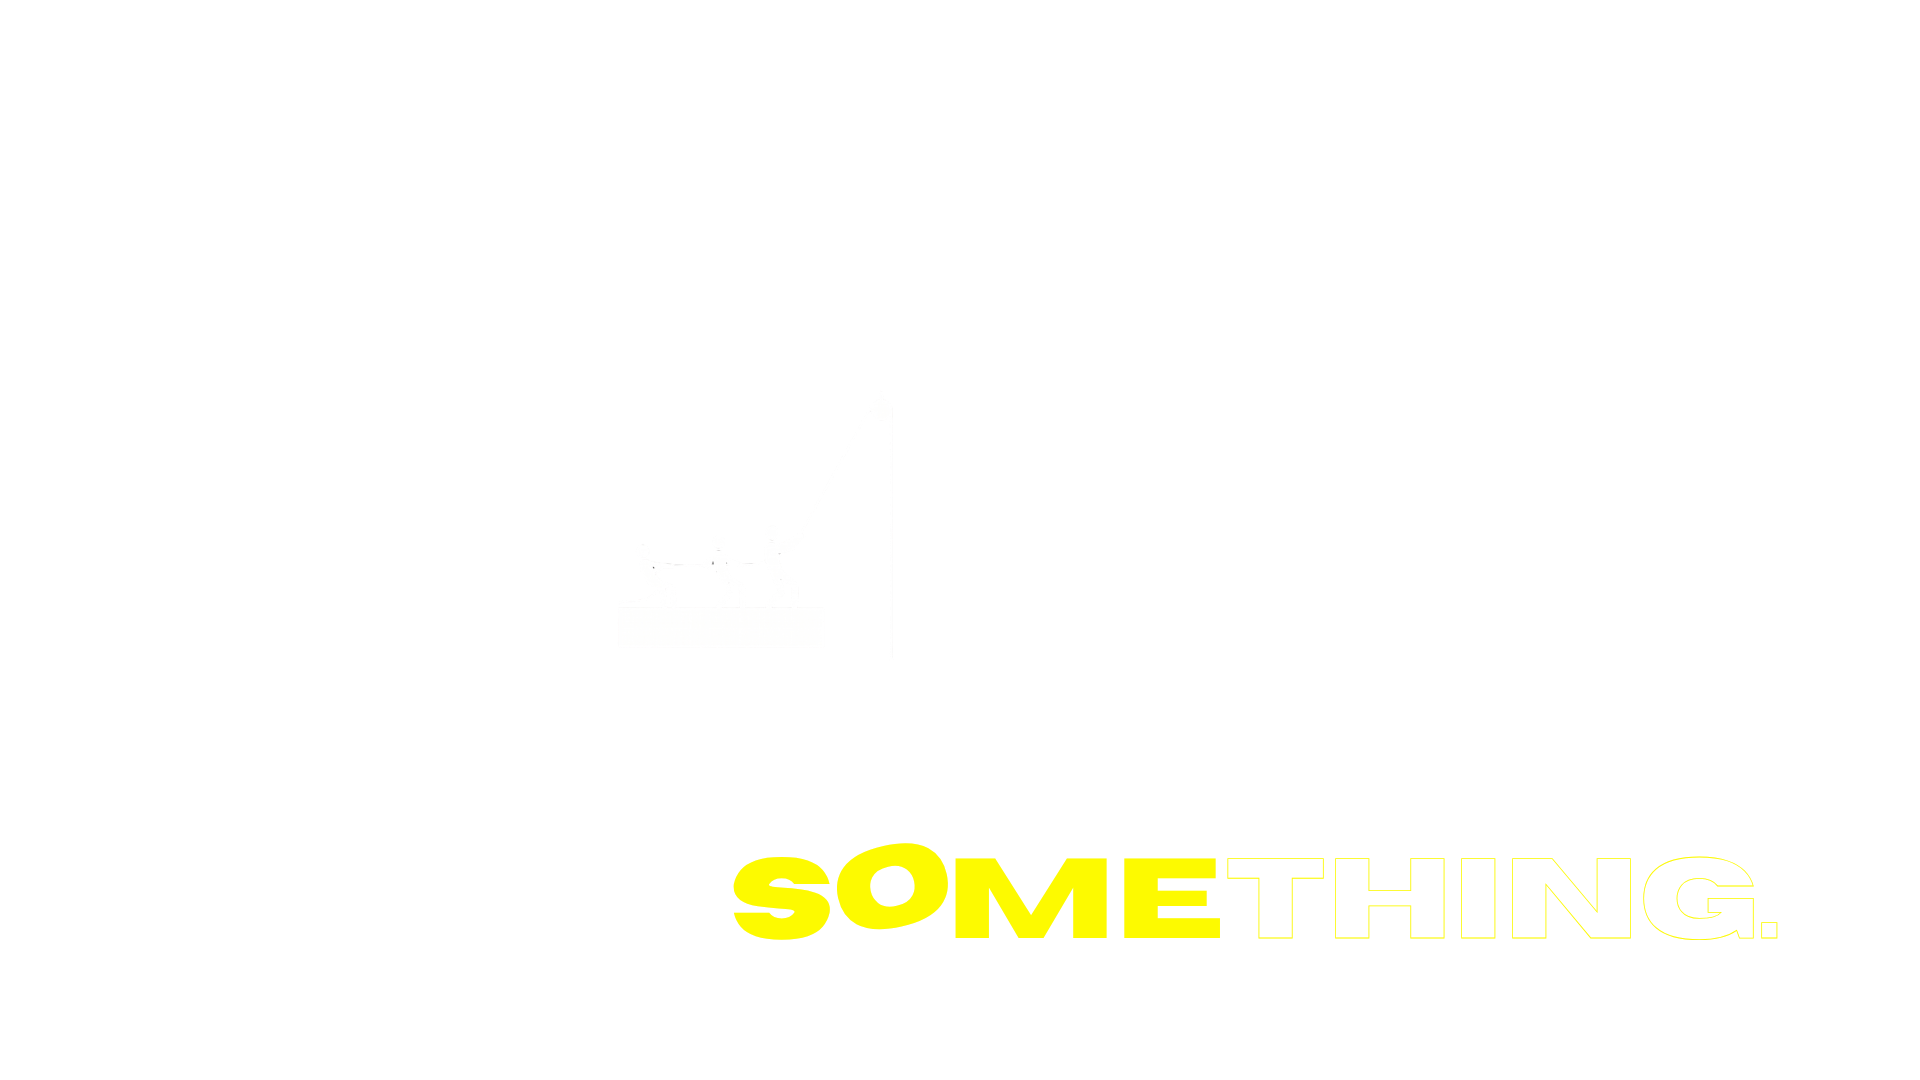
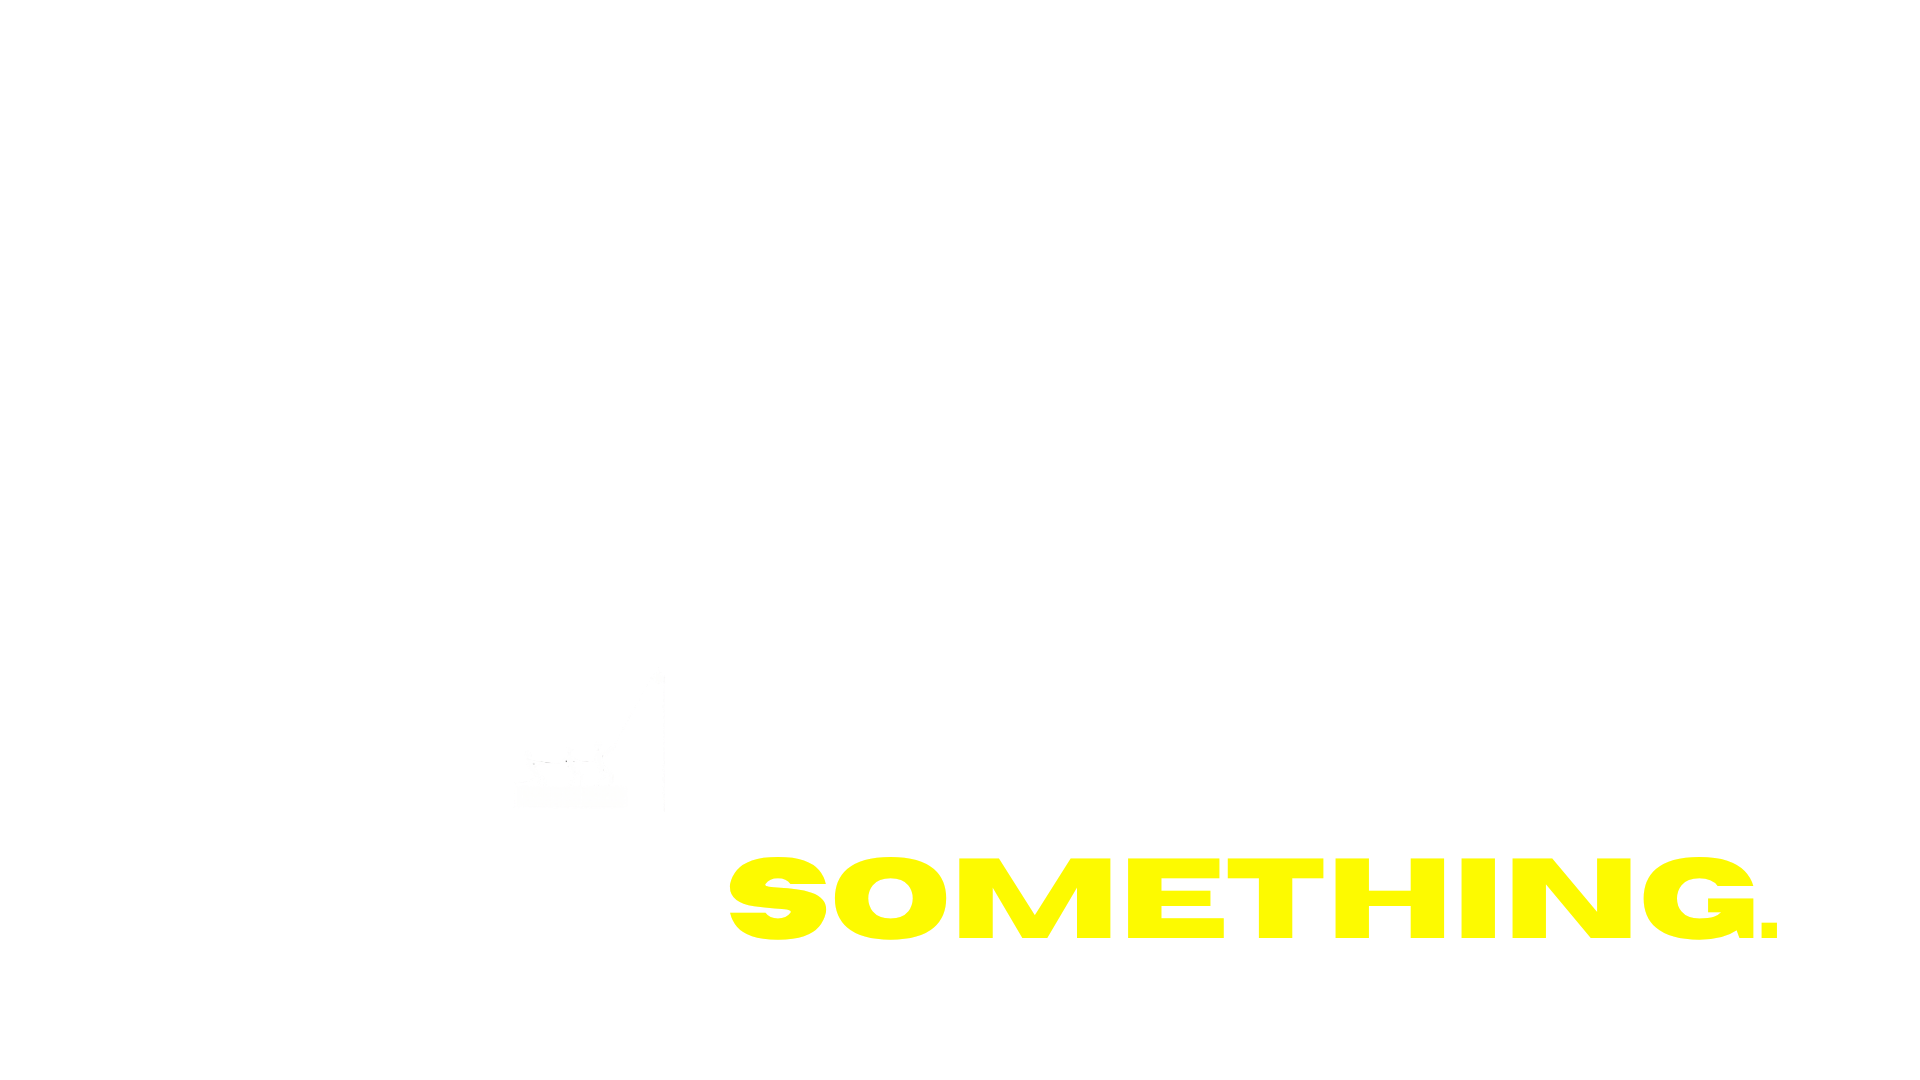
Refactor code structure for improved readability and maintainability

Changed region(s): [[0.625, 0.7944, 0.9375, 0.8861], [0.375, 0.7639, 0.5938, 0.8861]]

diff --git a/src/App.tsx b/src/App.tsx
@@ -59,7 +59,7 @@ const CARDS_CONFIG = [
   {
     id: "c6",
     label: "Knowledge Base",
-    image: "images/folder3.png",
+    image: "images/folder7.png",
     position: { bottom: "-14%", right: "-2%" },
     rotation: 20,
     link: "#knowledge-base",
@@ -84,7 +84,7 @@ const CARDS_CONFIG = [
   {
     id: "c7",
     label: "Current Project",
-    image: "images/note3.png",
+    image: "images/note5.png",
     position: { bottom: "43%", right: "21%" },
     rotation: 10,
     link: "#current-project",
@@ -99,7 +99,6 @@ const CARDS_CONFIG = [
 const NAV_LINKS = [
   { label: "About Us", href: "#novae" },
   { label: "Projects", href: "#projects" },
-  { label: "Partnerships", href: "#partnerships" },
   { label: "Team", href: "#team" },
   { label: "Newsletter", href: "#newsletter" },
   { label: "Knowledge Base", href: "#knowledge-base" },
@@ -156,7 +155,7 @@ export function Navbar() {
         zIndex: 100,
         display: "flex",
         alignItems: "center",
-        gap: 12,
+        gap: 16,
         pointerEvents: "auto",
       }}
     >
@@ -334,7 +333,7 @@ export function HeroSection() {
  
  
    <motion.img
-  src="images/slogan2.png"
+  src="images/slogan3.png"
   alt="BUILD SOMETHING"
   initial={{ opacity: 0, y: -10 }}
   animate={{ opacity: 1, y: 0 }}
@@ -488,7 +487,7 @@ export function HeroSection() {
     left: 20,
     zIndex: 20,
     width: 240,
-    backdropFilter: "blur(24px) saturate(1.4)",
+    backdropFilter: "blur(2px) saturate(1.4)",
     WebkitBackdropFilter: "blur(24px) saturate(1.4)",
     background: "rgba(255,255,255,0.08)",
     border: "0.5px solid rgba(255,255,255,0.14)",
@@ -554,7 +553,7 @@ export function HeroSection() {
           color: "rgba(255,255,255,0.40)",
           margin: 0,
         }}>
-          November · Unicorn Factory
+          November
         </p>
       </div>
     </div>
@@ -699,7 +698,7 @@ useEffect(() => {
       const scale = screenW / 1920;
 
       root.style.width = "1920px";
-      root.style.height = `${screenH / scale}px`;
+      root.style.height = "1080px";
       root.style.transform = `scale(${scale})`;
       root.style.transformOrigin = "top left";
       root.style.position = "absolute";